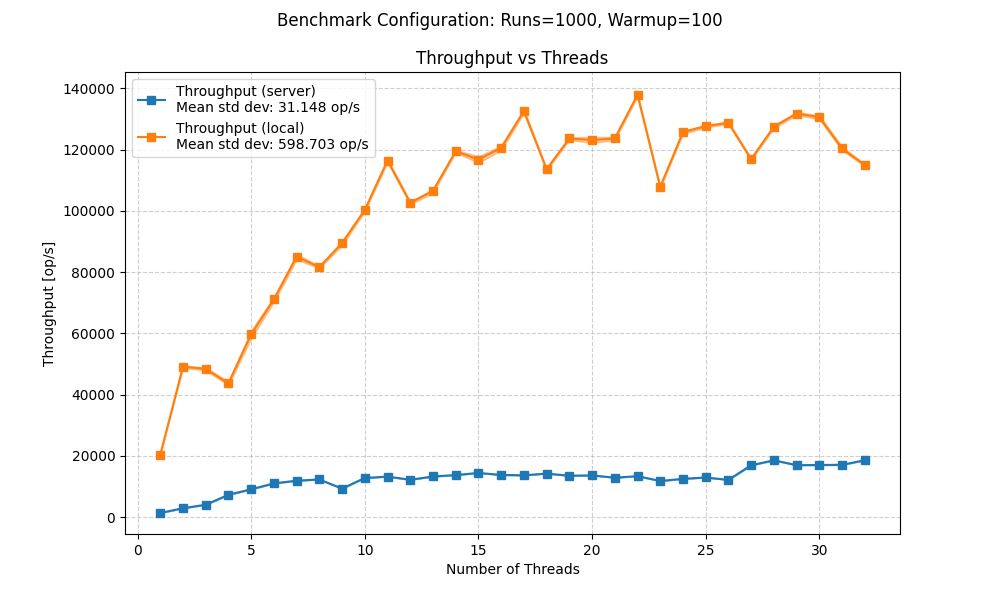
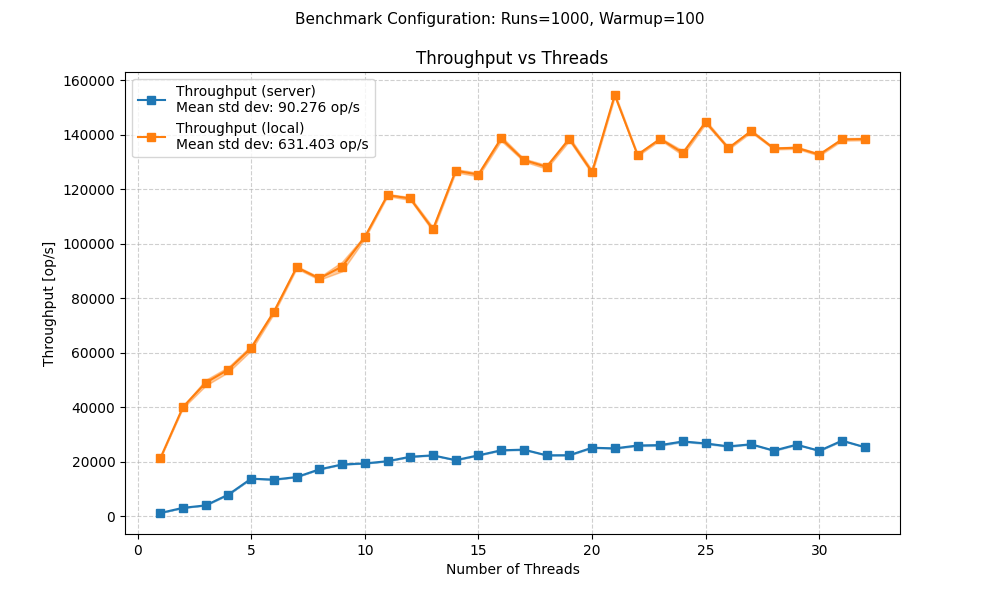
Add restart to server to sync local and server benchmark

diff --git a/a3/src/com/acertainbookstore/client/BookStoreHTTPProxy.java b/a3/src/com/acertainbookstore/client/BookStoreHTTPProxy.java
@@ -2,6 +2,7 @@ package com.acertainbookstore.client;
 
 import java.net.URLEncoder;
 import java.nio.charset.StandardCharsets;
+import java.util.HashSet;
 import java.util.List;
 import java.util.Set;
 import org.eclipse.jetty.client.HttpClient;
@@ -82,6 +83,13 @@ public class BookStoreHTTPProxy implements BookStore {
 	public void setServerAddress(String serverAddress) {
 		this.serverAddress = serverAddress;
 	}
+
+    public void restartServer() throws BookStoreException {
+        String urlString = serverAddress + "/" + BookStoreMessageTag.RESTART;
+        System.out.println("Restarting server via proxy at: " + urlString);
+        BookStoreRequest bookStoreRequest = BookStoreRequest.newGetRequest(urlString);
+        BookStoreUtility.performHttpExchange(client, bookStoreRequest, serializer.get());
+    }
 
 	/*
 	 * (non-Javadoc)

diff --git a/a3/src/com/acertainbookstore/client/workloads/CertainWorkload.java b/a3/src/com/acertainbookstore/client/workloads/CertainWorkload.java
@@ -31,7 +31,7 @@ public class CertainWorkload {
     public static final int maxThreads = 32;
     public static final int numWarmupRuns = 100;
     public static final int numRuns = 1000;
-    public static boolean localTest = false;
+    public static boolean localTest = true;
 
 	/**
 	 * @param args
@@ -92,6 +92,7 @@ public class CertainWorkload {
             // Finished initialization, stop the clients if not localTest
             if (!localTest) {
                 assert bookStore instanceof BookStoreHTTPProxy;
+                ((BookStoreHTTPProxy) bookStore).restartServer();
                 ((BookStoreHTTPProxy) bookStore).stop();
                 ((StockManagerHTTPProxy) stockManager).stop();
             }

diff --git a/a3/main.py b/a3/main.py
@@ -28,7 +28,7 @@ for label, df in datasets.items():
     )
 
 plt.title(f'Latency vs Threads')
-plt.suptitle(f'Benchmark Configuration: Runs={runs}, Warmup={warmup}', fontsize=12)
+plt.suptitle(f'Benchmark Configuration: Runs={runs}, Warmup={warmup}', fontsize=11)
 plt.xlabel('Number of Threads')
 plt.ylabel('Latency [us]')
 plt.legend()
@@ -51,7 +51,7 @@ for label, df in datasets.items():
     )
 
 plt.title(f'Throughput vs Threads')
-plt.suptitle(f'Benchmark Configuration: Runs={runs}, Warmup={warmup}', fontsize=12)
+plt.suptitle(f'Benchmark Configuration: Runs={runs}, Warmup={warmup}', fontsize=11)
 plt.xlabel('Number of Threads')
 plt.ylabel('Throughput [op/s]')
 plt.legend()

diff --git a/a3/src/com/acertainbookstore/server/BookStoreHTTPMessageHandler.java b/a3/src/com/acertainbookstore/server/BookStoreHTTPMessageHandler.java
@@ -84,6 +84,13 @@ public class BookStoreHTTPMessageHandler extends AbstractHandler {
 			System.err.println("No message tag.");
 		} else {
 			switch (messageTag) {
+            case RESTART:
+                myBookStore = new CertainBookStore();
+                BookStoreResponse bookStoreResponse = new BookStoreResponse();
+                byte[] serializedResponseContent = serializer.get().serialize(bookStoreResponse);
+                response.getOutputStream().write(serializedResponseContent);
+                break;
+
 			case REMOVEBOOKS:
 				removeBooks(request, response);
 				break;

diff --git a/a3/src/com/acertainbookstore/utils/BookStoreMessageTag.java b/a3/src/com/acertainbookstore/utils/BookStoreMessageTag.java
@@ -5,6 +5,8 @@ package com.acertainbookstore.utils;
  * bookstore.
  */
 public enum BookStoreMessageTag {
+    /** FOR DEBUGGING/BENCHMARKING ONLY **/
+    RESTART,
 
 	/** The tag for the add book message. */
 	ADDBOOKS,
